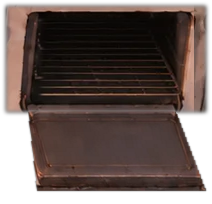
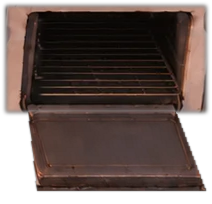
Rerna: metalni okvir desno od otvora iz nove slike
Claude-Session: https://claude.ai/code/session_01GMM3Rnq6i1o8tZEuJzXhvg

Changed region(s): [[0.9057, 0.0294, 0.9906, 0.5588]]

diff --git a/index.html b/index.html
@@ -36,7 +36,7 @@
 </filter>
 </defs>
 </svg>
-<div id="viewport"><div aria-hidden="true" id="sceneAmbient"></div><div id="scene"><div id="waterStream"></div><div id="waterSplash"></div><div id="tableOccluder"></div><div aria-hidden="true" id="sceneOcclusionLayer"><div aria-hidden="true" class="scene-occluder scene-occluder-left-leg" id="tableLegOccluderLeft"></div><div aria-hidden="true" class="scene-occluder scene-occluder-right-leg" id="tableLegOccluderRight"></div></div><div aria-hidden="true" id="fireTimerBar"><i></i></div><button aria-label="Vrata ložišta" class="stove-hotspot" id="fireboxHotspot"></button><img alt="" aria-hidden="true" draggable="false" id="ovenDoorOpen" src="assets/stove_states_v3/oven_door_open.webp?v=5"/><img alt="" aria-hidden="true" draggable="false" id="ovenDrawerOpen" src="assets/stove_states_v3/drawer_open.webp?v=1"/><button aria-label="Vrata rerne" class="stove-hotspot" id="ovenHotspot"></button><button aria-label="Fioka rerne" class="stove-hotspot" id="drawerHotspot"></button></div></div>
+<div id="viewport"><div aria-hidden="true" id="sceneAmbient"></div><div id="scene"><div id="waterStream"></div><div id="waterSplash"></div><div id="tableOccluder"></div><div aria-hidden="true" id="sceneOcclusionLayer"><div aria-hidden="true" class="scene-occluder scene-occluder-left-leg" id="tableLegOccluderLeft"></div><div aria-hidden="true" class="scene-occluder scene-occluder-right-leg" id="tableLegOccluderRight"></div></div><div aria-hidden="true" id="fireTimerBar"><i></i></div><button aria-label="Vrata ložišta" class="stove-hotspot" id="fireboxHotspot"></button><img alt="" aria-hidden="true" draggable="false" id="ovenDoorOpen" src="assets/stove_states_v3/oven_door_open.webp?v=6"/><img alt="" aria-hidden="true" draggable="false" id="ovenDrawerOpen" src="assets/stove_states_v3/drawer_open.webp?v=1"/><button aria-label="Vrata rerne" class="stove-hotspot" id="ovenHotspot"></button><button aria-label="Fioka rerne" class="stove-hotspot" id="drawerHotspot"></button></div></div>
 <button aria-label="Levo" class="edge-arrow left" id="leftArrow">‹</button>
 <button aria-label="Desno" class="edge-arrow right" id="rightArrow">›</button>
 <div id="cursor"></div><div id="label"></div>

diff --git a/NOTES.md b/NOTES.md
@@ -774,7 +774,7 @@ Kad serving.js nacrta sliku posude, sakriva staru masku prednjeg zida (ona je U-
 - Nije provereno: animacija (fioka se otvara odmah, bez prelaza), telefon, ubacivanje cepanice u ložište iz fioke u celom toku (samo uzimanje).
 
 ## Otvorena rerna (spuštena vrata) i vraćanje cepanica u fioku
-- Stara slika otvorene rerne (cela scena, sa vatrom u ložištu i vratima koja prekrivaju fioku) je obrisana (`oven_open.webp`). Nova je mali isečak (`assets/stove_states_v3/oven_door_open.webp`, 212×204) preko normalne kuhinje: vrata su spuštena prema gledaocu, svetli okvir oko vrata ostaje, a ložište i vatra se crtaju isto kao kad je rerna zatvorena. Unutrašnjost je sa stare slike (rešetke). Bela traka okvira desno od otvora (x 1586–1604) je sa stare kuhinje, da okvir ne nestane Spuštena vrata su prava perspektivna deformacija (donja/prednja ivica 13 px udesno, spoj sa rernom na mestu, po crtežu vlasnika), Isečak (`oven_door_open.webp`) sadrži samo otvor rerne (do linije spoja) i sama spuštena vrata, bez slike fioke: sve ispod i pored vrata ostaje stara slika kuhinje (zatvorena fioka, zakivci), pa se fioka ne pomera.
+- Stara slika otvorene rerne (cela scena, sa vatrom u ložištu i vratima koja prekrivaju fioku) je obrisana (`oven_open.webp`). Nova je mali isečak (`assets/stove_states_v3/oven_door_open.webp`, 212×204) preko normalne kuhinje: vrata su spuštena prema gledaocu, svetli okvir oko vrata ostaje, a ložište i vatra se crtaju isto kao kad je rerna zatvorena. Unutrašnjost je sa stare slike (rešetke). Bela traka okvira desno od otvora (x 1586–1604) je sa stare kuhinje, da okvir ne nestane Metalni okvir desno od otvora je iz nove slike (ne sa stare kuhinje). Spuštena vrata su prava perspektivna deformacija (donja/prednja ivica 13 px udesno, spoj sa rernom na mestu, po crtežu vlasnika), Isečak (`oven_door_open.webp`) sadrži samo otvor rerne (do linije spoja) i sama spuštena vrata, bez slike fioke: sve ispod i pored vrata ostaje stara slika kuhinje (zatvorena fioka, zakivci), pa se fioka ne pomera.
 - `syncOvenDoorPicture()`, `OVEN_DOOR_OPEN_RECT`; klik na spuštena vrata zatvara rernu. Otvaranje rerne zatvara fioku i obrnuto (vrata leže preko fioke).
 - Cepanica iz ruke se vraća u otvorenu fioku klikom na nju (`returnHeldLogToDrawer`); ako je fioka zatvorena: "Prvo otvori fioku." (`game.js?v=3.139`).
 - Napomena: otvorena vrata rerne i ložišta se ne pamte posle ponovnog učitavanja (i ranije nije bilo tako).
